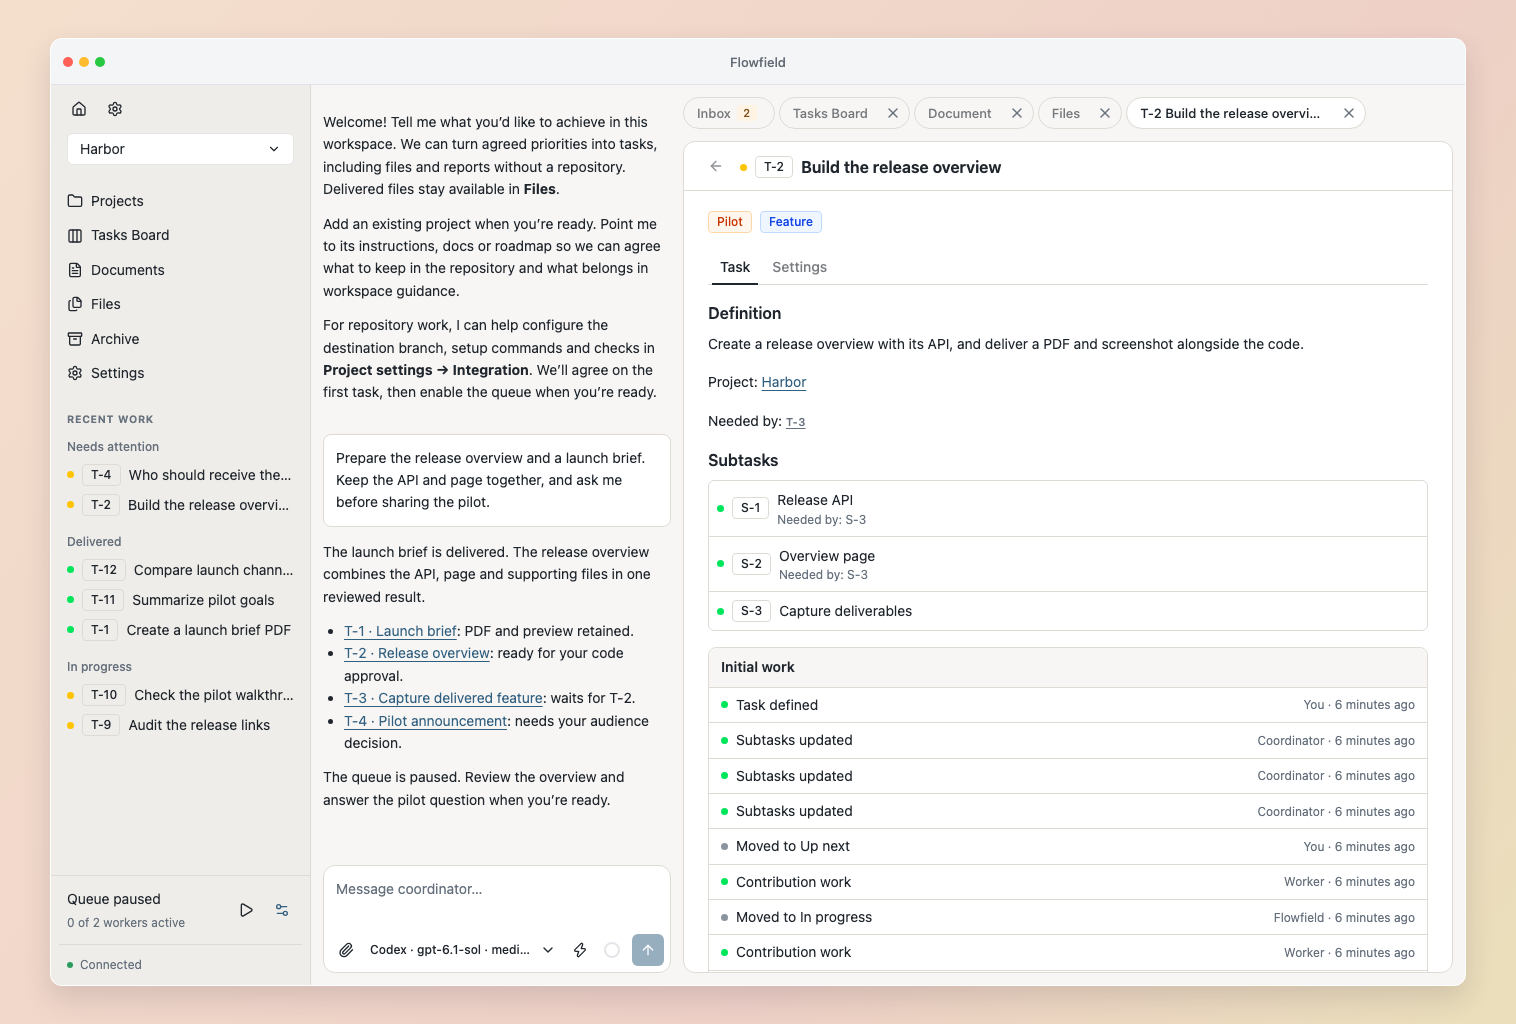
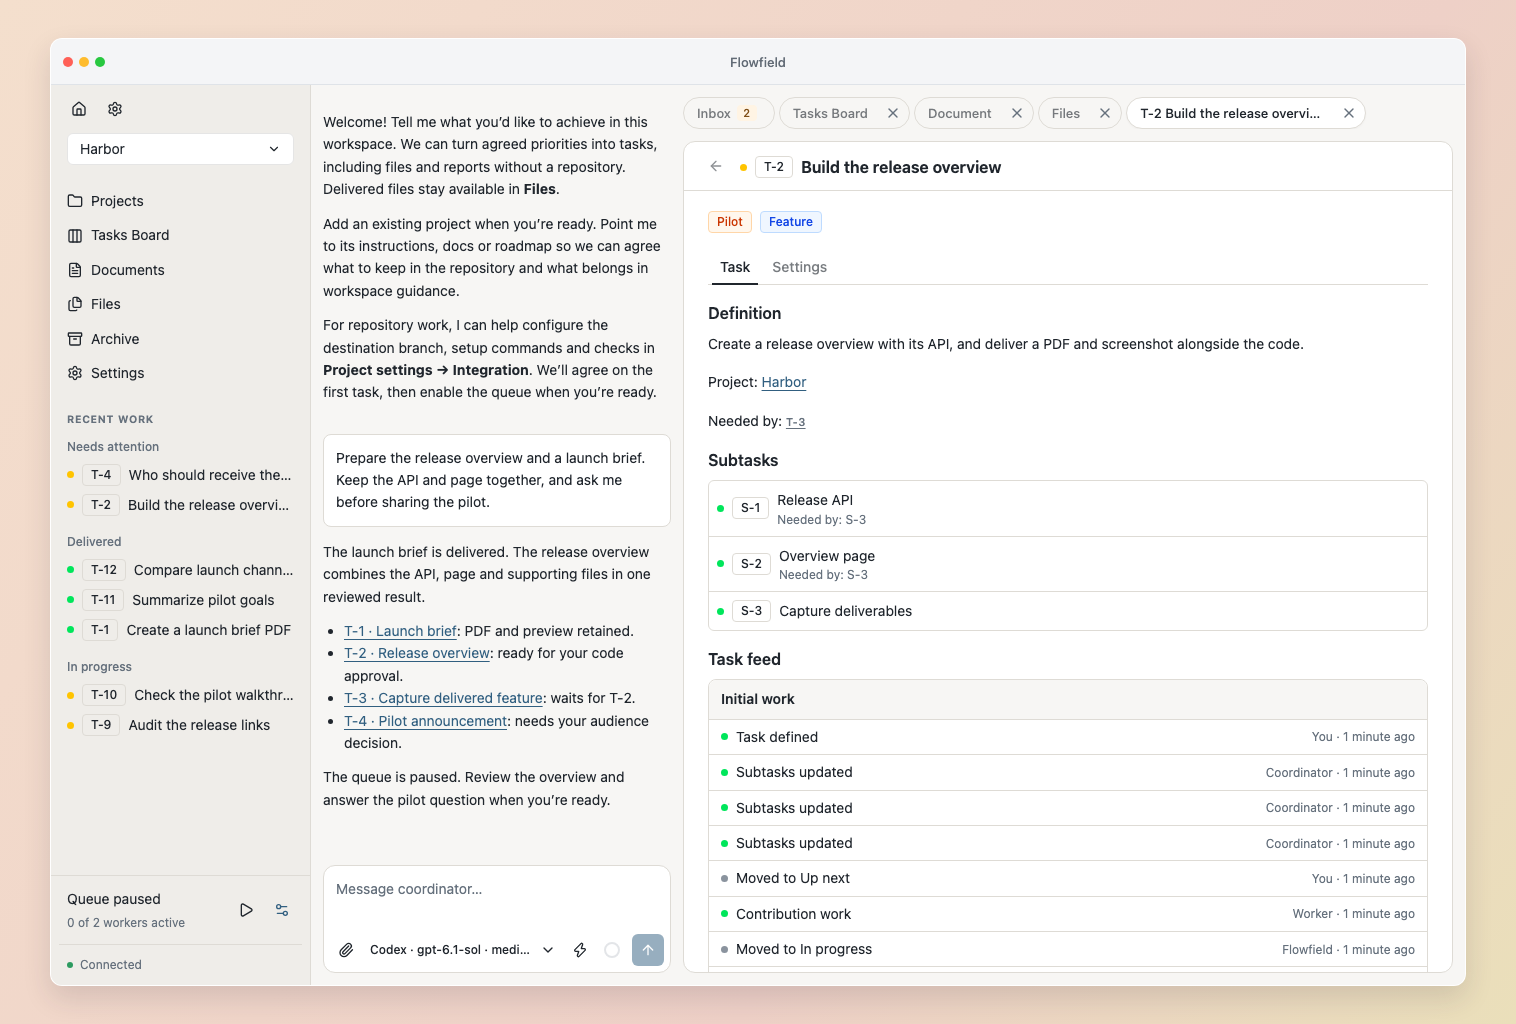
Polish final settings and prepare 0.6.0 release notes

Changed region(s): [[0.465, 0.625, 0.5891, 0.9375], [0.8061, 0.6562, 0.9301, 0.9375]]

diff --git a/web/src/WorkerDocuments.tsx b/web/src/WorkerDocuments.tsx
@@ -71,11 +71,8 @@ export function WorkerDocumentPicker({
                 {document.title}
               </SettingsCheckbox>
               {selected && document.id !== "guidance" && (
-                <label
-                  className="settings-checkbox-content content-stack"
-                  data-space="tight"
-                >
-                  <span className="detail-metadata">Use as</span>
+                <label className="settings-checkbox-content flex items-center gap-2">
+                  <span>Use as</span>
                   <NativeSelect
                     size="sm"
                     aria-label={`Use ${document.title} as`}

diff --git a/web/src/TaskDetail.tsx b/web/src/TaskDetail.tsx
@@ -213,12 +213,14 @@ export function TaskDetail({
         </ContentStack>
       )}
       {!settings && (
-        <TaskConversation
-          projectId={workspaceId}
-          task={task}
-          board={board}
-          refresh={board}
-        />
+        <DetailSection title="Task feed">
+          <TaskConversation
+            projectId={workspaceId}
+            task={task}
+            board={board}
+            refresh={board}
+          />
+        </DetailSection>
       )}
     </section>
   );

diff --git a/web/src/Workers.tsx b/web/src/Workers.tsx
@@ -190,7 +190,7 @@ export function WorkerSettings({
   const effort = draft?.effort ?? resource.data?.selection?.effort ?? "";
   const mode = draft?.mode ?? resource.data?.selection?.mode ?? "";
   const fast = draft?.fast ?? resource.data?.selection?.fast ?? false;
-  const cap = draft?.cap ?? resource.data?.max_parallel ?? 1;
+  const cap = draft?.cap ?? resource.data?.max_parallel ?? 5;
   const [busy, setBusy] = useState(false);
   const [error, setError] = useState("");
   const dirty =

diff --git a/web/src/api-schema.ts b/web/src/api-schema.ts
@@ -5387,7 +5387,7 @@ export interface components {
       selection: components["schemas"]["AgentChoice-Input"];
       /**
        * Max Parallel
-       * @default 1
+       * @default 5
        */
       max_parallel: number;
     };
@@ -6371,7 +6371,7 @@ export interface components {
       selection: components["schemas"]["AgentChoice-Output"] | null;
       /**
        * Max Parallel
-       * @default 1
+       * @default 5
        */
       max_parallel: number;
       /**

diff --git a/src/flowfield/execution_models.py b/src/flowfield/execution_models.py
@@ -33,7 +33,7 @@ class WorkspaceWorkerSettings(Record):
     workspace_id: str
     revision: int = 1
     selection: AgentChoice | None = None
-    max_parallel: int = 1
+    max_parallel: int = 5
     auto_start_queue: bool = False
     enabled: bool = False
     problem: str | None = None
@@ -47,7 +47,7 @@ class WorkerOccupancy(Record):
 class SettingsEdit(Record):
     expected_revision: int = Field(ge=1)
     selection: AgentChoice
-    max_parallel: int = Field(default=1, ge=1, le=16)
+    max_parallel: int = Field(default=5, ge=1, le=16)
 
 
 class QueueEdit(Record):

diff --git a/tests/test_execution.py b/tests/test_execution.py
@@ -28,7 +28,7 @@ def test_no_implicit_model_or_queue_and_stale_settings(tmp_path: Path) -> None:
     adopt(workspace, ProjectSetup(path=str(tmp_path / "harbor")))
     execution = Execution(workspace)
     settings = execution.settings("harbor")
-    assert settings.selection.model == "test-model" and settings.max_parallel == 1
+    assert settings.selection.model == "test-model" and settings.max_parallel == 5
     assert not settings.enabled
     execution.configure(
         "harbor",

diff --git a/src/flowfield/execution_cli.py b/src/flowfield/execution_cli.py
@@ -224,7 +224,7 @@ def register(workspace_app: typer.Typer, task_app: typer.Typer) -> None:
             None,
             help="Access mode from `workers models`; choose explicitly for a new harness.",
         ),
-        max_parallel: int = typer.Option(1, min=1, max=16),
+        max_parallel: int = typer.Option(5, min=1, max=16),
         json_output: Json = False,
     ) -> None:
         def perform() -> Any:

diff --git a/src/flowfield/templates/flowfield-coordinator/SKILL.md b/src/flowfield/templates/flowfield-coordinator/SKILL.md
@@ -37,7 +37,7 @@ Document/default edits leave prepared assignments and running attempts unchanged
 
 Task dependencies may cross projects within the workspace; they wait for delivered outcomes, not shared checkouts or Git ancestry. An edge does not select prerequisite files. If needed outputs do not exist, keep the dependent task in Backlog. Select exact retained `input_files` and prepare the complete handoff before moving it to Up next: prerequisite approval may immediately release execution. Explain when another Coordinator turn must finish preparation. Cross-workspace edges and cycles are rejected.
 
-For files/reports without repository changes, omit `project_id` and prepare `completion=report`. Task tools use workspace binding and workspace-local T-1 identities. Select sent attachments or retained output IDs in `input_files`; workers receive exact copies. Browse them with `list_workspace_files`/`get_workspace_file`. Workers submit paths within `FLOWFIELD_OUTPUT_DIR`; retained files survive scratch cleanup and successor results. Even a Markdown change in a repository is code-changing work, regardless of labels.
+For files/reports without repository changes, omit `project_id` and prepare `completion=report`. Task tools use workspace binding and workspace-local T-1 identities. Select sent attachments or retained output IDs in `input_files`; workers receive exact copies. Browse them with `list_workspace_files`/`get_workspace_file`. Workers submit paths within `FLOWFIELD_OUTPUT_DIR`; retained files survive scratch cleanup and successor results. In human handoffs, link to the exact result or workspace Files view; local file paths are for agent access, not browser links. Even a Markdown change in a repository is code-changing work, regardless of labels.
 
 ## Adopt a usable project
 

diff --git a/CHANGELOG.md b/CHANGELOG.md
@@ -1,6 +1,6 @@
 # Changelog
 
-## Unreleased
+## 0.6.0
 
 ### Features
 
@@ -15,7 +15,7 @@
 - Create a workspace with one agent choice, or customize Coordinator, Worker and Reviewer roles. Workspace and task settings retain independent choices, including supported Fast mode.
 - Configure document usage from its editor or through the Coordinator, including defaults for tasks without a project. Prepared assignments keep their selected revisions. Maintain the shared label catalogue in workspace settings.
 - Try exact code results through a directly visible launcher, inspect their diffs and approve delivery to the configured local branch. Project settings can explicitly permit workers to run saved validation commands through Flowfield.
-- Save queue auto-start as a workspace preference independently of the sidebar’s current Run/Pause state.
+- Save queue auto-start as a workspace preference independently of the sidebar’s current Run/Pause state. New workspaces default to five parallel workers.
 
 ### Bug fixes
 
